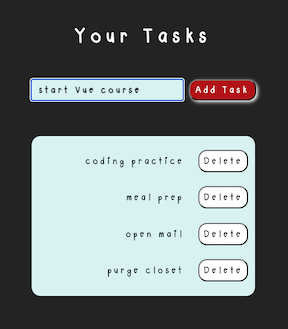
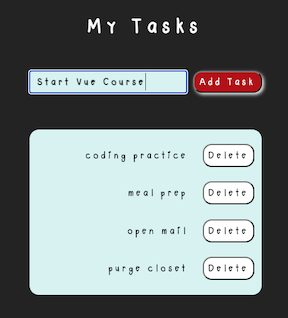
fixed file paths

diff --git a/index.html b/index.html
@@ -6,13 +6,14 @@
     <meta http-equiv="X-UA-Compatible" content="IE=edge">
     <meta name="viewport" content="width=device-width, initial-scale=1.0">
     <title>My Tasks</title>
-    <link href="/styles.css" rel="stylesheet">
+    <link href="styles.css" rel="stylesheet">
 </head>
 
 <body>
     <div id="task-div">
-        <h1> Your Tasks </h1>
+        <h1> My Tasks </h1>
         <!-- add current date -->
+        <!-- remove text from input field once user adds -->
         <input id="todo-title" type="text" />
 
         <button id="add-task" onClick="addTodo()">
@@ -22,7 +23,7 @@
         <div id="todo-list"></div>
     </div>
 
-    <script src="/script.js"></script>
+    <script type="text/javascript" src="script.js"></script>
 </body>
 
 </html>

diff --git a/script.js b/script.js
@@ -13,16 +13,12 @@ if (Array.isArray(savedTodos)) {
     todos = savedTodos;
 } else {
     todos = [{
-        title: 'Get groceries',
+        title: 'coding practice',
         id: 'id1'
     },
     {
-        title: 'Meal prep',
+        title: 'meal prep',
         id: 'id2'
-    },
-    {
-        title: 'Make dinner',
-        id: 'id3'
     }];
 }
 
